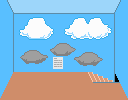
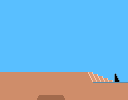
update images and logic r10 to r17

diff --git a/data.js b/data.js
@@ -204,11 +204,12 @@ module.exports.ROOMS = {
             // #ff0000
             hff0000: { cmd: "enter", room: "r06Reciclaje", label: "Materiales y residuos", point: [92, 95], enterPoint: [68, 47], obstacle: false },
             // #00e436
-            h00e436: { cmd: "enter", room: "r03Cookies", label: "cookies", point: [120, 84], enterPoint: [10, 85], obstacle: false },
+            // h00e436: { cmd: "enter", room: "r03Cookies", label: "cookies", point: [120, 84], enterPoint: [10, 85], obstacle: false },
+            h00e436: { cmd: "enter", room: "r12Resolucion", label: "cookies", point: [120, 84], enterPoint: [10, 85], obstacle: false },
             // #ff77a8
-            hff77a8: { cmd: "enter", room: "r10Nubes", label: "La nube", point: [98, 72], enterPoint: [60, 98], obstacle: false },
+            // hff77a8: { cmd: "enter", room: "r10Nubes", label: "La nube", point: [98, 72], enterPoint: [120, 92], obstacle: false },
             // #29adff
-            h29adff: { cmd: "enter", room: "r10Nubes", label: "La nube", point: [32, 72], enterPoint: [60, 98], obstacle: false },
+            h29adff: { cmd: "enter", room: "r10Nubes", label: "La nube", point: [32, 72], enterPoint: [120, 92], obstacle: false },
             // #ffec27
             hffec27: { cmd: "enter", room: "r09FakeNews", label: "Fake News", point: [10, 85], enterPoint: [120, 86], obstacle: false },
             // #be1250
@@ -229,7 +230,7 @@ module.exports.ROOMS = {
             h00cc99: { cmd: "text", label: "espejo 6", txt: "¡Genial! Si te interesa saber más sobre seguridad en la red, por aquí te dejamos información más amplia: ", lines: 4, url: "https://arsgames.net/wp-content/uploads/2019/02/manual-de-seguridad-digital.pdf", iframe: true, point: [87, 84], obstacle: false },
         },
         things: {
-            personaje: { file: "salas/r08Huella_NPC_Sprite.png", id: "personaje", offset: 2, position: [60, 77 - 11], frames: 4, frameDelay: 30, visible: true, label: "HuellaTRON", command: { cmd: "text", txt: "Uy si, las cookies de terceros son peligrosas para tu privacidad, seguro ya has aceptado muchas ¿revisamos tu huella digital?", lines: 4, point: [69, 88], obstacle: false }},
+            personaje: { file: "salas/r08Huella_NPC_Sprite.png", id: "personaje", position: [60, 77 - 11], frames: 4, frameDelay: 30, visible: true, label: "HuellaTRON", command: { cmd: "text", txt: "Uy si, las cookies de terceros son peligrosas para tu privacidad, seguro ya has aceptado muchas ¿revisamos tu huella digital?", lines: 4, point: [69, 88], obstacle: false }},
             // command: { cmd: "text", txt: "", lines: 2, postAction: true, actionId: "Survey1",  label: "???", point: [65, 95], obstacle: false } },
         }
         
@@ -246,9 +247,9 @@ module.exports.ROOMS = {
         areaColors: {
             //h will be replaced by #
             // #00e436
-            h00e436: { cmd: "enter", room: "r08Huella", label: "huella", point: [120, 85], enterPoint: [10, 85], obstacle: false },
+            h00e436: { cmd: "enter", room: "r08Huella", label: "Huella", point: [120, 85], enterPoint: [10, 85], obstacle: false },
             // #ffec27
-            hffec27: { cmd: "enter", room: "r10Nubes", label: "nubes", point: [10, 85], enterPoint: [60, 98], obstacle: false },
+            hffec27: { cmd: "enter", room: "r10Nubes", label: "La nube", point: [10, 85], enterPoint: [60, 98], obstacle: false },
             // #00cc99
             h00cc99: { cmd: "text", label: "news1", point: [97, 80], obstacle: false, txt: "hay que poner algo", url:"https://juego.verdaderofalso.com/", iframe: true },
             // #ff00ff
@@ -258,20 +259,29 @@ module.exports.ROOMS = {
         }
     },
     r10Nubes: {
-        bg: "/salas/r10Nubes.png",
+        bg: "/salas/r10Nubes_anim2.png",
+        frames: 2,
+        animations: { 
+            nube: [0, 2], 
+            transformacion: [2, 2], 
+            cables: [4, 2],
+        },
         frameDelay: 60,
         avatarScale: 3,
         pageBg: "#1c2016",
-        area: "/salas/r10Nubes_Int.png",
+        area: "/salas/r10Nubes_Int_Anim.png",
         tint: "#fdeac8",
         bubblesY: 44,
         spawn: [40, 85, 90, 95],
         areaColors: {
             //h will be replaced by #
-
+            // #00e436
+            h00e436: { cmd: "enter", room: "r08Huella", label: "Huella", point: [115, 92], enterPoint: [32, 72], obstacle: false },
+            // #ffec27
+            hffec27: { cmd: "enter", room: "r11Lago", label: "Lago", point: [20, 85], enterPoint: [32, 72], obstacle: false },
             // HABRIA QUE PONER OTRA SALIDA???
             // #ff0000
-            hff0000: { cmd: "enter", room: "r08Huella", label: "huella", point: [60, 98], enterPoint: [32, 72], obstacle: false },
+            hff0000: { cmd: "enter", room: "r09FakeNews", label: "Fake News", point: [60, 98], enterPoint: [10, 86], obstacle: false },
             // #ff77a8
             hff77a8: { cmd: "enter", room: "r13Netiqueta", label: "planta -1", point: [86, 77], enterPoint: [60, 95], obstacle: false },
             // #b75714
@@ -286,22 +296,33 @@ module.exports.ROOMS = {
             h0066ff: { cmd: "text", label: "nube oscura 2", txt: "¡Internet contamina! Mira cuanto (embeber nada más la infografía que se mueve. Si pudiésemos hacerla nosotros en castellano mucho mejor ", url: "https://www.ticbeat.com/innovacion/huella-carbono-internet/", iframe: true, lines: 5, point: [60, 85], obstacle: false },
             // #9900cc
             h9900cc: { cmd: "text", label: "nube oscura 3", txt: "hacer una infografía similar a esta, que muestre más información y datos.", url: "https://www.custommade.com/blog/carbon-footprint-of-internet/", iframe: true, lines: 3, point: [80, 80], obstacle: false },
-        }
+        },
+        things: {
+            // nubeA: { file: "salas/r08Huella_NPC_Sprite.png", id: "personaje", position: [60, 77 - 11], frames: 4, frameDelay: 30, visible: true, label: "HuellaTRON", command: { cmd: "text", txt: "Uy si, las cookies de terceros son peligrosas para tu privacidad, seguro ya has aceptado muchas ¿revisamos tu huella digital?", lines: 4, point: [69, 88], obstacle: false }},
+            // command: { cmd: "text", txt: "", lines: 2, postAction: true, actionId: "Survey1",  label: "???", point: [65, 95], obstacle: false } },
+        },
     },
     r11Lago: {
         bg: "/salas/r11Lago.png",
+        frames: 2,
         frameDelay: 60,
         avatarScale: 3,
         pageBg: "#1c2016",
-        area: "/salas/r11Lago_Int.png",
+        area: "/salas/r11Lago_Int2.png",
         tint: "#fdeac8",
         bubblesY: 44,
-        spawn: [40, 85, 90, 95],
+        spawn: [10, 72, 21, 82],
         areaColors: {
             //h will be replaced by #
-            // #be1250
-            hbe1250: { cmd: "enter", room: "r10Nubes", label: "nubes", point: [60, 95], enterPoint: [86, 77], obstacle: false },
-        }
+            // #ffec27
+            hffec27: { cmd: "enter", room: "r10Nubes", label: "nubes", point: [15, 80], enterPoint: [10, 86], obstacle: false },
+            // #9900cc
+            h9900cc: { cmd: "text", txt: "como te llamas?", label: "pescador", point: [109, 74], obstacle: false },
+        },
+        things: {
+            // pescador: { file: "salas/r08Huella_NPC_Sprite.png", id: "personaje", position: [60, 77 - 11], frames: 4, frameDelay: 30, visible: true, label: "HuellaTRON", command: { cmd: "text", txt: "Uy si, las cookies de terceros son peligrosas para tu privacidad, seguro ya has aceptado muchas ¿revisamos tu huella digital?", lines: 4, point: [69, 88], obstacle: false }},
+            // command: { cmd: "text", txt: "", lines: 2, postAction: true, actionId: "Survey1",  label: "???", point: [65, 95], obstacle: false } },
+        },
     },
     r12Resolucion: {
         bg: "/salas/r12Resolucion.png",
@@ -333,6 +354,7 @@ module.exports.ROOMS = {
     },
     r13Netiqueta: {
         bg: "/salas/r13Netiqueta.png",
+        frames: 2,
         frameDelay: 60,
         avatarScale: 3,
         pageBg: "#1c2016",
@@ -344,13 +366,18 @@ module.exports.ROOMS = {
             //h will be replaced by #
             // #be1250
             hbe1250: { cmd: "enter", room: "r10Nubes", label: "nubes", point: [60, 95], enterPoint: [86, 77], obstacle: false },
+            // #29adff
+            h29adff: { cmd: "enter", room: "r12Resolucion", label: "Resolución", point: [100, 76], enterPoint: [10, 85], obstacle: false },
         },
         things: {
-            cabinet: { file: "pico-cabinet.png", id: "cabinet", offset: 9, position: [25, 64], frames: 1, frameDelay: 60, visible: true, label: "ascensor", command: { cmd: "text", actionId: "Cabinet", txt: "Oh, un teletransporte", lines: 1, point: [38, 86] } },
+            // teletransport cabinet
+            // cabinet: { file: "pico-cabinet.png", id: "cabinet", offset: 9, position: [25, 64], frames: 1, frameDelay: 60, visible: true, label: "ascensor", command: { cmd: "text", actionId: "Cabinet", txt: "Oh, un teletransporte", lines: 1, point: [38, 86] } },
+            cabinet: { file: "pico-cabinet.png", id: "cabinet", offset: 9, position: [25, 64], frames: 1, frameDelay: 60, visible: true, label: "ascensor", command: { cmd: "text", txt: "Iframe netiqueta", iframe: true, url:"https://es.wikipedia.org/wiki/Netiqueta", lines: 1, point: [38, 86] } },
         }
     },
     r14Creacion: {
         bg: "/salas/r14Creacion.png",
+        frames: 2,
         frameDelay: 60,
         avatarScale: 3,
         pageBg: "#1c2016",
@@ -402,6 +429,7 @@ module.exports.ROOMS = {
     },
     r16Colabora: {
         bg: "/salas/r16Colabora.png",
+        frames: 2,
         frameDelay: 60,
         avatarScale: 3,
         pageBg: "#1c2016",
@@ -424,6 +452,7 @@ module.exports.ROOMS = {
     },
     r17SalaCrypto: {
         bg: "/salas/r17SalaCrypto.png",
+        frames: 2,
         frameDelay: 60,
         avatarScale: 3,
         pageBg: "#1c2016",

diff --git a/serverMod.js b/serverMod.js
@@ -104,6 +104,15 @@ module.exports.initMod = function (io, gameState, DATA) {
         "qué es el ransomware."
     ];
 
+    global.netiquetaTalk = [
+        "¿Qué opinas de las reglas de la netiqueta?",
+        "¿Se podrían mejorar?",
+        "Entre las personas que estáis en la sala",
+        "definid las reglas que debería tener este espacio,",
+        "podéis enviarlas a",
+        "educacionconectadaarquitecto@fad.com"
+    ];
+
     //  _   _ ____   ____     
     // | \ | |  _ \ / ___|___ 
     // |  \| | |_) | |   / __|
@@ -133,6 +142,18 @@ module.exports.initMod = function (io, gameState, DATA) {
         colors: [2, 2, 1, 5],
         labelColor: "#1e839d",
         actionId: "Divulgador"
+    });
+
+    var netiquetaNpc = new NPC({
+        id: "neti",
+        nickName: "neti",
+        room: "r13Netiqueta",
+        x: 72,
+        y: 77,
+        avatar: 1,
+        colors: [2, 2, 1, 5],
+        labelColor: "#1e839d",
+        actionId: "Netiqueta"
     });
 
     divulgadorNpc.behavior = setTimeout(function ramble() {
@@ -248,7 +269,6 @@ module.exports.r02EntradaLeave = function(player, roomId) {
     if (roomState.usersList.length === 0) {
         global.roomStates['r03Cookies'].monsterActive = false;
         deactivateCookieMonster();
-        // console.log('monstruo----------------off')
     }
 }
 
@@ -325,6 +345,14 @@ module.exports.r10NubesJoin = function(player, roomId) {
     // console.log("MOD: " + player.nickName + " entered room " + roomId);
     // io.emit('musicExit');
     // io.emit('musicOn', 3);
+    setTimeout(function() {
+        io.sockets.emit('changeBgAnim', 'transformacion' );
+        setTimeout(function() {
+            io.sockets.emit('changeBgAnim', 'cables' );
+        }, 3000);
+    }, 5000);
+}
+
 module.exports.r12ResolucionJoin = function(player, roomId) {
     let roomState = global.roomStates[roomId];
     roomState.usersList.push(player.id);
@@ -370,7 +398,7 @@ module.exports.r13NetiquetaJoin = function(player, roomId) {
 //  \__,_|\___|\__|_|\___/|_| |_|___/
 //        
 
-module.exports.onCookies = function(playerId, roomId) {
+module.exports.onCookies = function() {
     global.roomStates['r03Cookies'].monsterActive = true;
     activateCookieMonster();
     // console.log('monstruo----------------activo')
@@ -385,21 +413,22 @@ module.exports.onSurvey1 = function(playerId) {
 }
 
 
-module.exports.onCabinet = function(playerId, roomId) {
+module.exports.onCabinet = function(playerId,) {
     console.log('cabinet----------------action');
     this.transferPlayer(playerId, "r13Netiqueta", "r12Resolucion", 10 * 2, 86 * 2);
 }
 
-module.exports.onNpcFixit = function(playerId, roomId) {
-    console.log('npcFixit----------------action');
+module.exports.onNpcFixit = function(playerId) {
+    let roomState = global.roomStates["r12Resolucion"];
+    roomState.missionUsersList.push(playerId);
     this.transferPlayer(playerId, "r12Resolucion", "r06Reciclaje", 68 * 2, 65 * 2);
 }
 
-module.exports.onRecepcionista = function(playerId, roomId) {
+module.exports.onRecepcionista = function(playerId) {
     console.log('recepcionista----------------action');
 }
 
-module.exports.onDivulgador = function(playerId, roomId) {
+module.exports.onDivulgador = function(playerId) {
     console.log('Divulgador----------------action');
     let roomState = global.roomStates["r02Entrada"];
 
